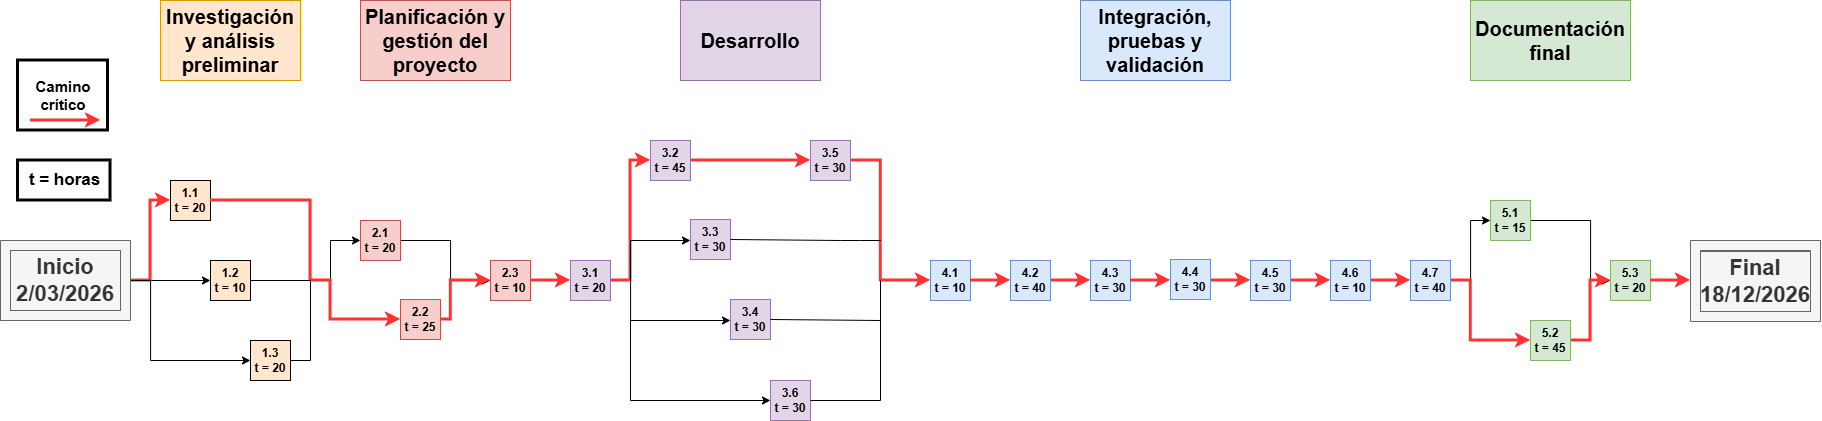
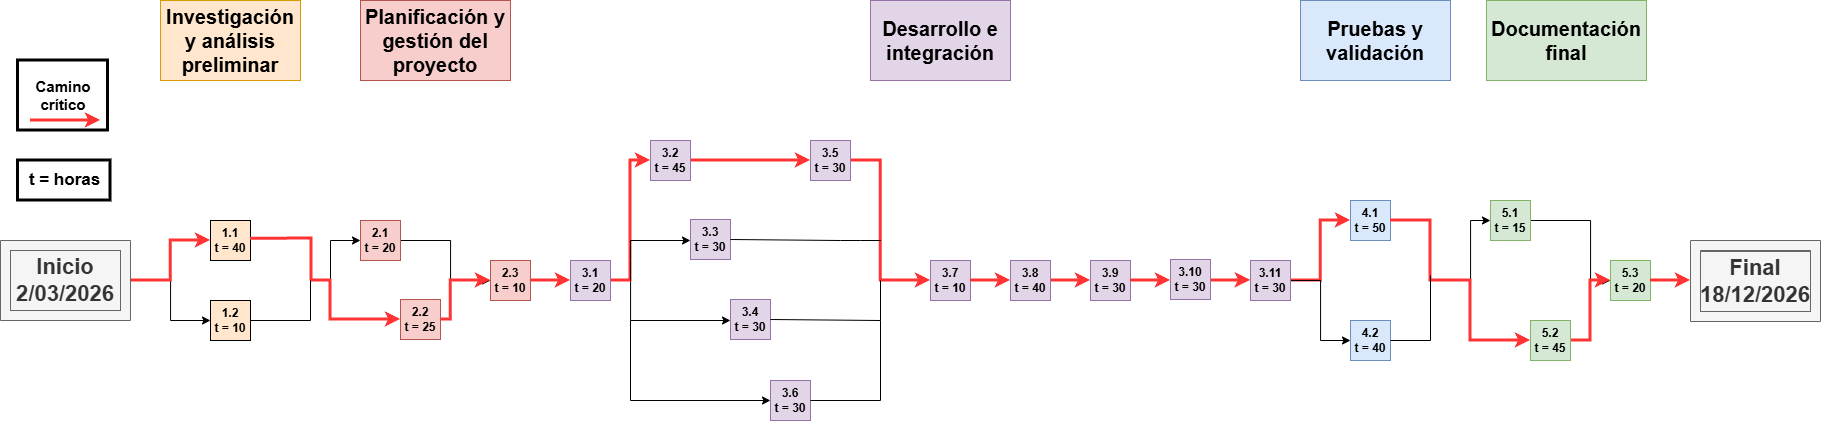
agrego diagrama de gantt

diff --git a/charter.tex b/charter.tex
@@ -313,7 +313,7 @@ Posteriormente, se realizará la sumatoria de los pesos y se tomará el valor de
 \textit{Story point} : 13
 \end{center} 
     
-    \item Como analista de laboratorio, quiero visualizar el resultado final (positivo o negativo) en la pantalla de forma clara al cabo de los 60 minutos, para poder informar el diagnóstico sin necesidad de interpretar gráficos complejos.
+    \item Como analista de laboratorio, quiero visualizar el resultado final (positivo o negativo) en la pantalla de forma clara al cabo de los 45 minutos, para poder informar el diagnóstico sin necesidad de interpretar gráficos complejos.
     
      Requiere procesar datos y generar curvas para su interpretación. Cualquier ruido óptico o error en la lectura afecta directamente.
 	\begin{itemize}
@@ -351,19 +351,6 @@ Posteriormente, se realizará la sumatoria de los pesos y se tomará el valor de
 \begin{center}
 \textit{Story point} : 13
 \end{center}
-    
-    \item Como técnico de mantenimiento, quiero acceder a un menú o función de calibración técnica, para poder verificar el funcionamiento individual de los LEDs RGB y calibrar las ganancias de los sensores ópticos en caso de desajustes.
-    
-    Hay que hacer una interfaz específica, que incluya guardado de datos de calibración y los procesos para cada componente.
-    \begin{itemize}
-    	\item Cantidad: 8
-    	\item Complejidad: 5 
-    	\item Riesgo o incertidumbre: 8
-	\end{itemize}
-
-\begin{center}
-\textit{Story point} : 21
-\end{center} 
 
 \end{itemize}
 
@@ -389,9 +376,8 @@ Los entregables del proyecto son:
 
 \item Investigación y análisis preliminar (50 h)
 	\begin{enumerate}
-	\item Estudio detallado de la técnica LAMP, requerimientos térmicos y ópticos. (20 h)
+	\item Estudio detallado de la técnica LAMP, requerimientos térmicos y ópticos. (40 h)
 	\item Análisis de normativas de seguridad eléctrica aplicables en laboratorio. (10 h)
-	\item Definición de la arquitectura de hardware y firmware del sistema. (20 h)
 	\end{enumerate}
 	
 \item Planificación y gestión del proyecto (55 h)
@@ -402,7 +388,7 @@ Los entregables del proyecto son:
 	\end{enumerate}
 
 
-\item Desarrollo (185 h)
+\item Desarrollo e integración (325 h)
 	\begin{enumerate}
 	\item Configuración de entorno de desarrollo. (20 h)
 	\item Configuración inicial de periféricos y \textit{drivers} de bajo nivel. (45 h)
@@ -410,17 +396,17 @@ Los entregables del proyecto son:
 	\item Desarrollo de comunicación serie y exportación de datos (USB). (30 h)
 	\item Implementación del lazo de control PID para la estabilización de temperatura. (30 h)
 	\item Programación de la interfaz gráfica de usuario en la pantalla táctil. (30 h)
+	\item Integración del hardware con las partes mecánicas y el gabinete preliminar. (10 h)
+	\item Integración de control térmico con excitación óptica y lectura. (40 h)
+	\item Integración de almacenamiento de datos de lecturas en SD. (30 h)
+	\item Integración de exportación de datos almacenados en SD. (30 h)
+	\item Desarrollo del algoritmo de análisis de la curva para el diagnóstico. (30 h)
 	\end{enumerate}
 
-\item Integración, pruebas y validación (230 h)
+\item Pruebas y validación (90 h)
 	\begin{enumerate}
-	\item Integración del hardware con las partes mecánicas y el gabinete preliminar. (10 h)
-	\item Pruebas de funcionamiento del control térmico con excitación óptica y lectura. (40 h)
-	\item Pruebas de almacenamiento de datos de lecturas en SD. (30 h)
-	\item Prueba de exportación de datos almacenados en SD. (30 h)
-	\item Desarrollo del algoritmo de análisis de la curva para el diagnóstico. (30 h)
-	\item Calibraciones para técnicos. (10 h)
-	\item Ensayos biológicos funcionales reales aplicando la técnica LAMP. (40 h)
+	\item Pruebas del dispositivo con ensayos biológicos funcionales reales aplicando la técnica LAMP. (50 h)
+	\item Ajustes de firmware y/o hardware. (40 h)
 	\end{enumerate}
 
 \item Documentación final (80 h)
@@ -449,95 +435,18 @@ Cantidad total de horas: 600 h.
 
 \end{landscape}
 
+\begin{landscape}
 \section{11. Diagrama de Gantt}
 \label{sec:gantt}
 
-\begin{consigna}{red}
-Existen muchos programas y recursos \textit{online} para hacer diagramas de Gantt, entre los cuales destacamos:
-
-\begin{itemize}
-\item Planner
-\item GanttProject
-\item Trello + \textit{plugins}. En el siguiente link hay un tutorial oficial: \\ \url{https://blog.trello.com/es/diagrama-de-gantt-de-un-proyecto}
-\item Creately, herramienta online colaborativa. \\\url{https://creately.com/diagram/example/ieb3p3ml/LaTeX}
-\item Se puede hacer en latex con el paquete \textit{pgfgantt}\\ \url{http://ctan.dcc.uchile.cl/graphics/pgf/contrib/pgfgantt/pgfgantt.pdf}
-\end{itemize}
-
-Pegar acá una captura de pantalla del diagrama de Gantt, cuidando que la letra sea suficientemente grande como para ser legible. 
-Si el diagrama queda demasiado ancho, se puede pegar primero la ``tabla'' del Gantt y luego pegar la parte del diagrama de barras del diagrama de Gantt.
-
-Configurar el software para que en la parte de la tabla muestre los códigos del EDT (WBS).\\
-Configurar el software para que al lado de cada barra muestre el nombre de cada tarea.\\
-Revisar que la fecha de finalización coincida con lo indicado en el Acta Constitutiva.
-
-En la figura \ref{fig:gantt}, se muestra un ejemplo de diagrama de gantt realizado con el paquete de \textit{pgfgantt}. 
-En la plantilla pueden ver el código que lo genera y usarlo de base para construir el propio.
-
-Las fechas pueden ser calculadas utilizando alguna de las herramientas antes citadas. Sin embargo, el siguiente ejemplo
-fue elaborado utilizando 
-\href{https://docs.google.com/spreadsheets/d/1fBz8NhSpc4tkkhz3KjJCbh1nR_ltDkfEcZi4tZXduqs}{esta hoja de cálculo}.
-
-Es importante destacar que el ancho del diagrama estará dado por la longitud del texto utilizado para las tareas 
-(Ejemplo: tarea 1, tarea 2, etcétera) y el valor \textit{x unit}. Para mejorar la apariencia del diagrama, es necesario
-ajustar este valor y, quizás, acortar los nombres de las tareas.
-
-\begin{figure}[htpb]
-  \begin{center}
-    \begin{ganttchart}[
-      time slot unit=day,
-      time slot format=isodate,
-      x unit=0.038cm,
-      y unit title=0.7cm,
-      y unit chart=0.6cm,
-      milestone/.append style={xscale=4}
-      ]{2021-03-05}{2021-12-16}
-      \gantttitlecalendar*{2021-03-05}{2021-12-16}{year} \\
-      \gantttitlecalendar*{2021-03-05}{2021-12-16}{month} \\
-      \ganttgroup{Duración Total}{2021-03-05}{2021-12-16} \\
-      %%%%%%%%%%%%%%%%%Organización
-      \ganttgroup{Organización}{2021-03-05}{2021-04-16} \\
-      \ganttbar{Planificación del proyecto}{2021-03-05}{2021-04-15} \\
-      %%%%%%%%%%%%%%%%%Ejecución
-      \ganttgroup{Ejecución}{2021-04-16}{2021-10-21} \\
-      \ganttbar{Tarea 1}{2021-04-16}{2021-04-29} \\
-      \ganttbar{Tarea 2}{2021-04-30}{2021-05-13} \\
-      \ganttbar{Tarea 3}{2021-05-14}{2021-05-27} \\
-      \ganttbar{Tarea 4}{2021-05-28}{2021-07-12} \\
-      \ganttbar{Tarea 5}{2021-07-13}{2021-08-09} \\
-      \ganttbar{Tarea 6}{2021-08-10}{2021-09-23} \\
-      \ganttbar{Tarea 7}{2021-09-24}{2021-09-30} \\
-      \ganttbar{Tarea 8}{2021-10-01}{2021-10-14} \\
-      \ganttbar{Tarea 9}{2021-10-15}{2021-10-21} \\
-      % %%%%%%%%%%%%%%%%%Finalización
-      \ganttgroup{Finalización}{2021-10-22}{2021-12-16} \\
-      \ganttbar{Memoria v1}{2021-10-22}{2021-11-04} \\
-      \ganttbar{Memoria v2}{2021-11-05}{2021-11-18} \\
-      \ganttbar{Memoria final}{2021-11-19}{2021-12-02} \\
-      % La fecha del siguiente milestone es la fecha en que terminamos la memoria
-      \ganttmilestone{Enviar memoria al director}{2021-12-02} \\
-      \ganttbar{Elaborar la presentación}{2021-12-03}{2021-12-16} \\
-      \ganttmilestone{Ensayo de la presentación}{2021-12-16} \\
-      %%%%%%%%%%%%%%%%%%%%%%%%%%%%%%%%%%%%%%%%%%%%%%%%%%%%%%%%%%%%%%%
-    \end{ganttchart}
-  \end{center}
-  \caption{Diagrama de gantt de ejemplo}
-  \label{fig:gantt}
-\end{figure}
-
-
-\begin{landscape}
-\begin{figure}[htpb]
+\begin{figure}[h]
 \centering 
-\includegraphics[height=.85\textheight]{./Figuras/Gantt-2.png}
-\caption{Ejemplo de diagrama de Gantt (apaisado).} %Modificar este título acorde.
-\label{fig:diagGantt}
+\includegraphics[width=1.57\textwidth]{./Figuras/gantt.png}
+\caption{Diagrama de \textit{Gantt}.}
+\label{fig:AoN}
 \end{figure}
 
 \end{landscape}
-
-\end{consigna}
-
-
 \section{12. Presupuesto detallado del proyecto}
 \label{sec:presupuesto}
 